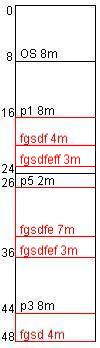
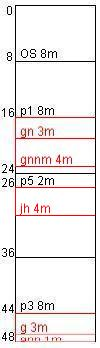
Fin

diff --git a/07_Asignacion_Memoria/src/LOGIC/Controlador.java b/07_Asignacion_Memoria/src/LOGIC/Controlador.java
@@ -78,19 +78,18 @@ public class Controlador implements ActionListener {
             } else if (e.getSource().equals(v.btnNext)) {
                 boolean a = true;
                 for (int i = 1; i < espacios.size(); i = i + 2) {
-                    if (espacios.get(i) == last) {
-                        pos[0] = espacios.get(i);
-                        if (pos[0] + size == 48) {
+                    int tem = i;
+                    if (espacios.get(tem) == last) {
+                        pos[0] = espacios.get(tem);
+                        if (espacios.get(tem) + size == 48) {
                             last = espacios.get(1) + size;
                             pos[0] = espacios.get(1);
                             pos[1] = 0;
-
                         } else {
                             last = pos[0] + size;
-                            pos[1] = i - 1;
-
+                            pos[1] = tem - 1;
                         }
-                        if (espacios.get(i - 1) >= size) {
+                        if (espacios.get(tem - 1) >= size) {
                             try {
                                 actualizarDibujo(pos, v.txtNombre.getText(), size, v);
                             } catch (IOException ex) {
@@ -98,11 +97,22 @@ public class Controlador implements ActionListener {
                             }
                             a = false;
                             break;
+                        } else {
+                            last = pos[0];
                         }
                     }
                 }
+
                 if (a) {
-                    for (int i = pos[1]; i < 2 * espacios.size(); i = i + 2) {
+                    int posi = 0;
+                    if (last == espacios.get((int) (espacios.size() - .1)) || last == 48) {
+                        last = espacios.get(1) + size;
+                        pos[0] = espacios.get(1);
+                        pos[1] = 0;
+                    } else {
+                        posi = pos[1];
+                    }
+                    for (int i = posi; i < 2 * espacios.size(); i = i + 2) {
                         int tem = i % espacios.size();
                         if (espacios.get(tem) >= size) {
                             pos[0] = espacios.get(tem + 1);
@@ -185,10 +195,10 @@ public class Controlador implements ActionListener {
     void llenadoBase(boolean nuevo) {
         // Memoria base
         Image img = new ImageIcon("estado0.jpg").getImage();
-        ImageIcon img2 = new ImageIcon(img.getScaledInstance(100, 390, Image.SCALE_SMOOTH));
+        ImageIcon img2 = new ImageIcon(img.getScaledInstance(140, 420, Image.SCALE_SMOOTH));
 
         JLabel d = new JLabel(img2);
-        d.setBounds(10, 3, 100, 390);
+        d.setBounds(10, 3, 140, 420);
         v.cont.add(d);
         v.sp.repaint();
 
@@ -252,7 +262,6 @@ public class Controlador implements ActionListener {
         }
     }
 
-    /////////////////////////////////////////////////////////////////////////////////////
     void actualizarDibujo(int pos[], String name, int size, FRM_Venta d) throws IOException {
         actualizar(pos, name, size);
 
@@ -292,9 +301,9 @@ public class Controlador implements ActionListener {
         v.sp.repaint();
         llenadoBase(false);
         Image img = new ImageIcon("estado" + (index + 1) + ".jpg").getImage();
-        ImageIcon img2 = new ImageIcon(img.getScaledInstance(100, 390, Image.SCALE_SMOOTH));
+        ImageIcon img2 = new ImageIcon(img.getScaledInstance(140, 420, Image.SCALE_SMOOTH));
         JLabel lab = new JLabel(img2);
-        lab.setBounds(130, 3, 100, 390);
+        lab.setBounds(170, 3, 140, 420);
         d.cont.add(lab);
         d.sp.repaint();
         index++;

diff --git a/07_Asignacion_Memoria/src/GUI/FRM_Venta.java b/07_Asignacion_Memoria/src/GUI/FRM_Venta.java
@@ -30,32 +30,32 @@ public class FRM_Venta extends JFrame {
 
     public void mostrar() {
         lblTitulo.setFont(new java.awt.Font("Verdana", 1, 25));
-        lblTitulo.setBounds(100, 5, 350, 45);
+        lblTitulo.setBounds(70, 5, 350, 45);
 
-        txtNombre.setBounds(10, 55, 50, 25);
+        txtNombre.setBounds(10, 55, 90, 25);
         txtNombre.setFont(fuente);
 
-        spnTamano.setBounds(65, 55, 50, 25);
+        spnTamano.setBounds(10, 90, 90, 25);
         spnTamano.setFont(fuente);
 
-        btnBest.setBounds(120, 55, 65, 25);
+        btnBest.setBounds(10, 125, 90, 25);
         btnBest.setFont(fuente);
 
-        btnWorst.setBounds(190, 55, 75, 25);
+        btnWorst.setBounds(10, 160, 90, 25);
         btnWorst.setFont(fuente);
 
-        btnFirst.setBounds(270, 55, 65, 25);
+        btnFirst.setBounds(10, 195, 90, 25);
         btnFirst.setFont(fuente);
 
-        btnNext.setBounds(340, 55, 65, 25);
+        btnNext.setBounds(10, 230, 90, 25);
         btnNext.setFont(fuente);
 
-        btnDelete.setBounds(410, 55, 90, 25);
+        btnDelete.setBounds(10, 265, 90, 25);
         btnDelete.setFont(new Font("verdana", Font.BOLD, 13));
 
-        sp.setBounds(10, 90, 490, 400);
+        sp.setBounds(110, 55, 320, 430);
 
-        setSize(525, 530);
+        setSize(455, 530);
         setLocationRelativeTo(null);
         setVisible(true);
         setDefaultCloseOperation(EXIT_ON_CLOSE);
